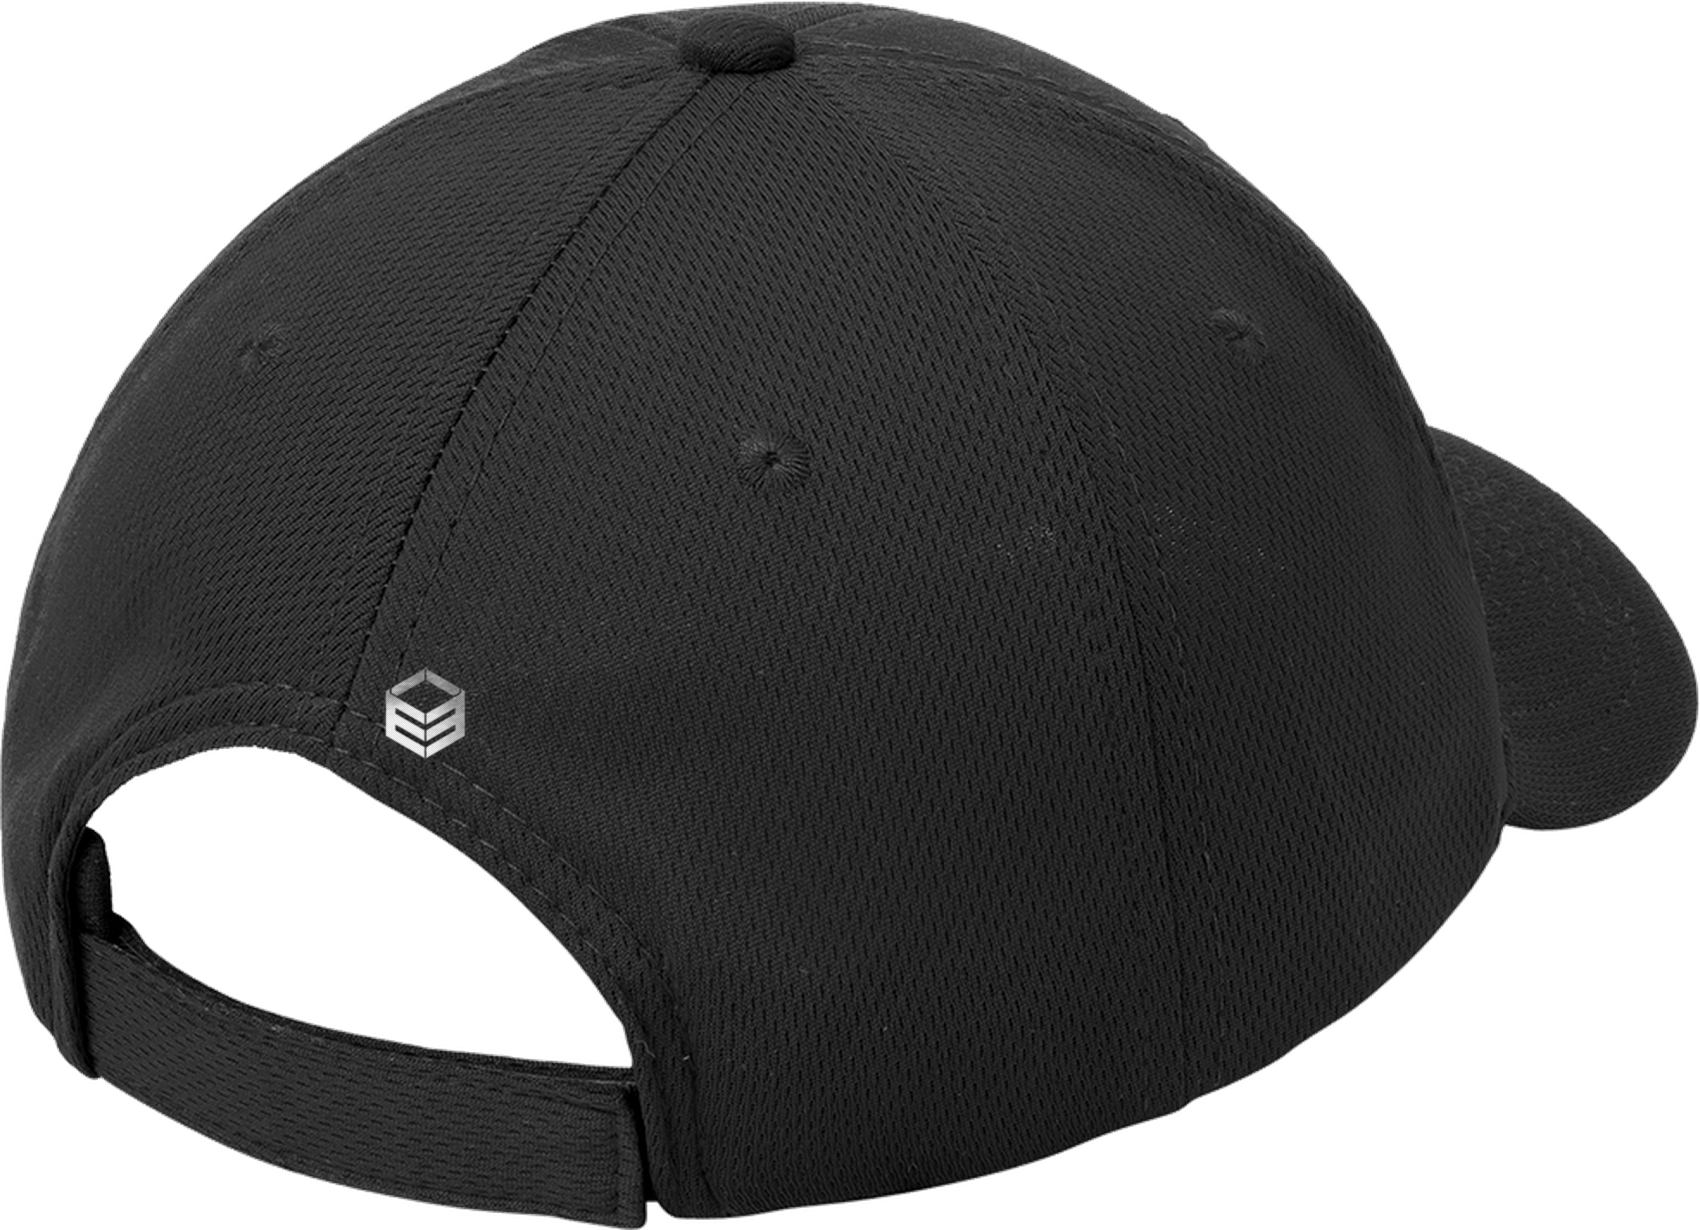
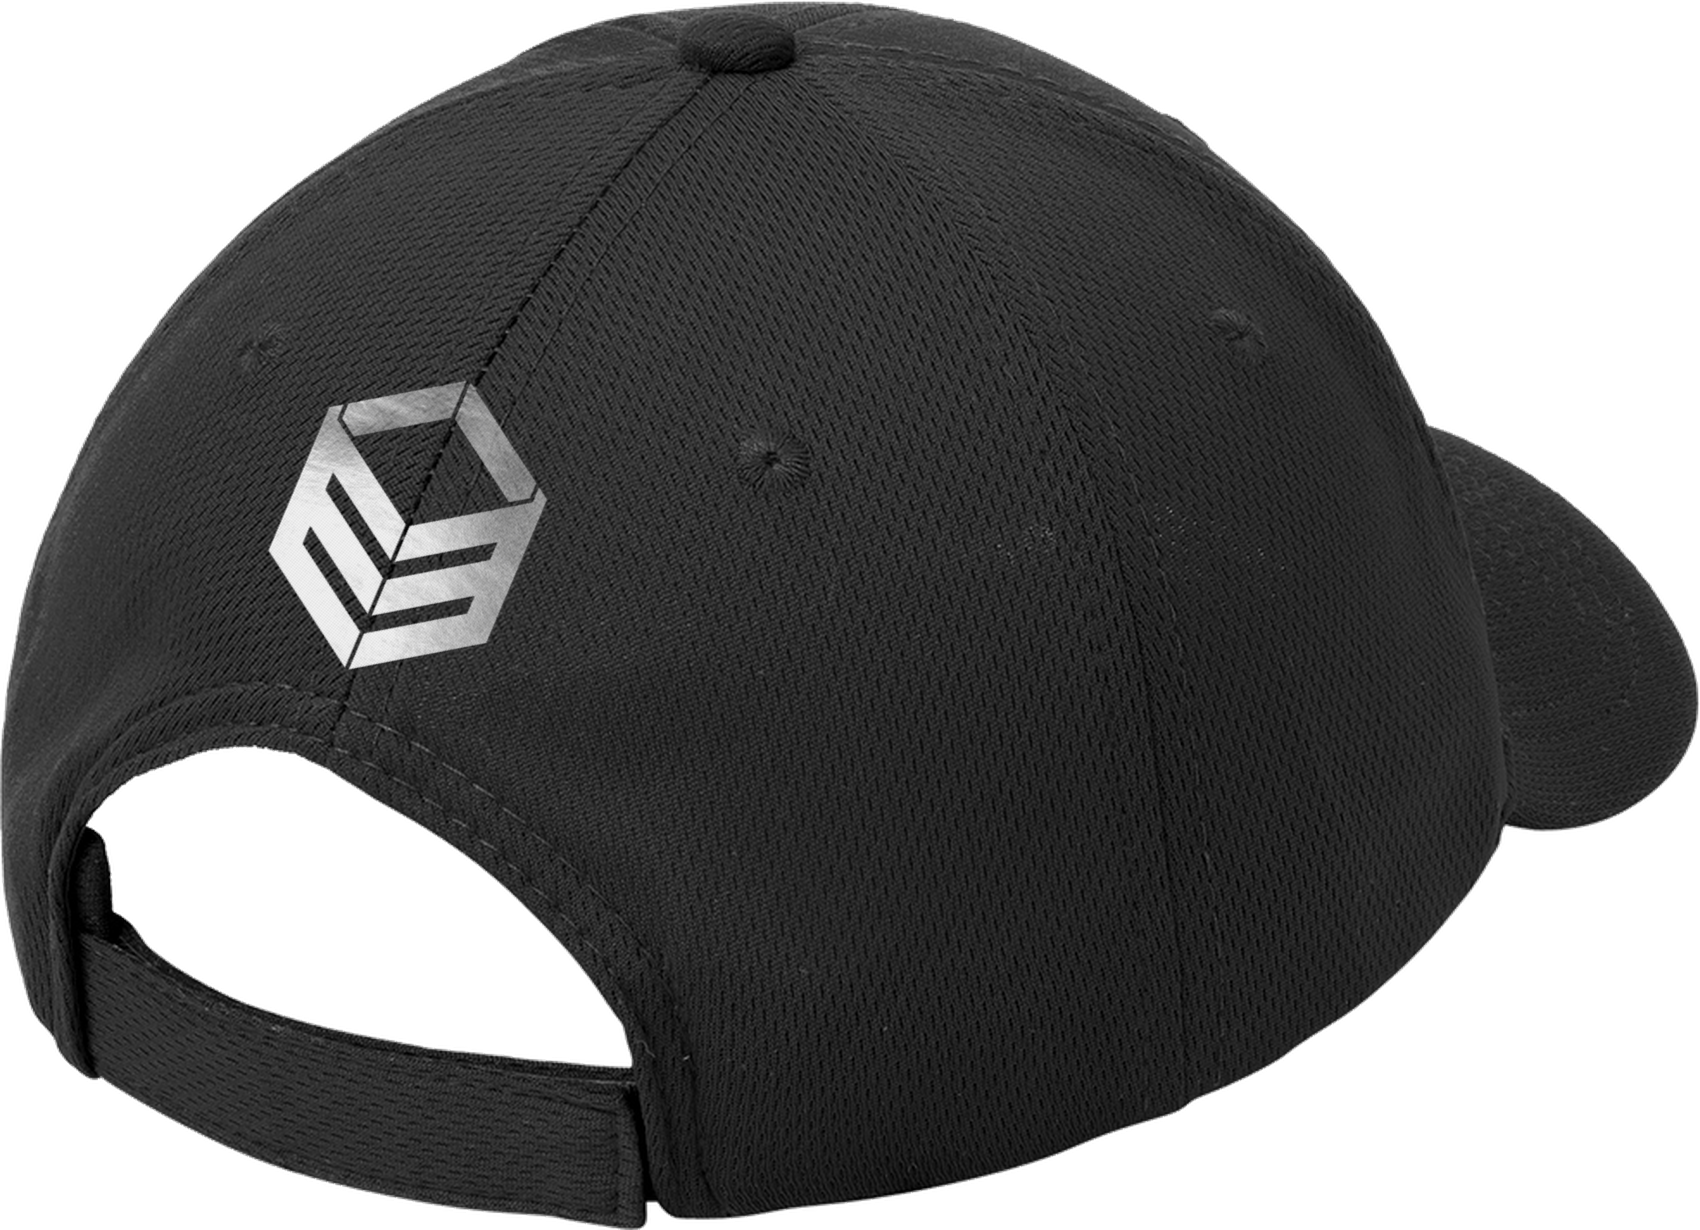
Center the back emblem and curve the agent name along the sweatband. (#16)
The emblem sits on the back seam, a third of the way up from the strap, and the name follows the side panel's lower edge.

Changed region(s): [[0.1559, 0.3089, 0.3429, 0.6179]]

diff --git a/cards/index.html b/cards/index.html
@@ -8,7 +8,7 @@
 (function () {
   var path = location.pathname, marker = '/enesma-shop/', i = path.indexOf(marker);
   window.SHOP_BASE = i >= 0 ? path.slice(0, i + marker.length) : '/';
-  var v = '20261120o';
+  var v = '20261120p';
   var b = window.SHOP_BASE;
   document.write('<base href="' + b + '">');
   document.write('<link rel="stylesheet" href="' + b + 'css/shop.css?v=' + v + '">');
@@ -23,12 +23,12 @@
 <body data-page="category" data-category="cards" data-title="Cards" data-lede="Business cards, printed with your photo and contact details.">
 <div id="app"></div>
 <script>
-document.write('<script src="' + window.SHOP_BASE + 'js/config.js?v=20261120o"><\/script>');
-document.write('<script src="' + window.SHOP_BASE + 'js/catalog.js?v=20261120o"><\/script>');
-document.write('<script src="' + window.SHOP_BASE + 'js/cart.js?v=20261120o"><\/script>');
-document.write('<script src="' + window.SHOP_BASE + 'js/api.js?v=20261120o"><\/script>');
-document.write('<script src="' + window.SHOP_BASE + 'js/ui.js?v=20261120o"><\/script>');
-document.write('<script src="' + window.SHOP_BASE + 'js/main.js?v=20261120o"><\/script>');
+document.write('<script src="' + window.SHOP_BASE + 'js/config.js?v=20261120p"><\/script>');
+document.write('<script src="' + window.SHOP_BASE + 'js/catalog.js?v=20261120p"><\/script>');
+document.write('<script src="' + window.SHOP_BASE + 'js/cart.js?v=20261120p"><\/script>');
+document.write('<script src="' + window.SHOP_BASE + 'js/api.js?v=20261120p"><\/script>');
+document.write('<script src="' + window.SHOP_BASE + 'js/ui.js?v=20261120p"><\/script>');
+document.write('<script src="' + window.SHOP_BASE + 'js/main.js?v=20261120p"><\/script>');
 </script>
 </body>
 </html>

diff --git a/signs/index.html b/signs/index.html
@@ -8,7 +8,7 @@
 (function () {
   var path = location.pathname, marker = '/enesma-shop/', i = path.indexOf(marker);
   window.SHOP_BASE = i >= 0 ? path.slice(0, i + marker.length) : '/';
-  var v = '20261120o';
+  var v = '20261120p';
   var b = window.SHOP_BASE;
   document.write('<base href="' + b + '">');
   document.write('<link rel="stylesheet" href="' + b + 'css/shop.css?v=' + v + '">');
@@ -23,12 +23,12 @@
 <body data-page="category" data-category="signs" data-title="Signs" data-lede="For sale signs and open house signs, in White or Black.">
 <div id="app"></div>
 <script>
-document.write('<script src="' + window.SHOP_BASE + 'js/config.js?v=20261120o"><\/script>');
-document.write('<script src="' + window.SHOP_BASE + 'js/catalog.js?v=20261120o"><\/script>');
-document.write('<script src="' + window.SHOP_BASE + 'js/cart.js?v=20261120o"><\/script>');
-document.write('<script src="' + window.SHOP_BASE + 'js/api.js?v=20261120o"><\/script>');
-document.write('<script src="' + window.SHOP_BASE + 'js/ui.js?v=20261120o"><\/script>');
-document.write('<script src="' + window.SHOP_BASE + 'js/main.js?v=20261120o"><\/script>');
+document.write('<script src="' + window.SHOP_BASE + 'js/config.js?v=20261120p"><\/script>');
+document.write('<script src="' + window.SHOP_BASE + 'js/catalog.js?v=20261120p"><\/script>');
+document.write('<script src="' + window.SHOP_BASE + 'js/cart.js?v=20261120p"><\/script>');
+document.write('<script src="' + window.SHOP_BASE + 'js/api.js?v=20261120p"><\/script>');
+document.write('<script src="' + window.SHOP_BASE + 'js/ui.js?v=20261120p"><\/script>');
+document.write('<script src="' + window.SHOP_BASE + 'js/main.js?v=20261120p"><\/script>');
 </script>
 </body>
 </html>

diff --git a/gear/index.html b/gear/index.html
@@ -8,7 +8,7 @@
 (function () {
   var path = location.pathname, marker = '/enesma-shop/', i = path.indexOf(marker);
   window.SHOP_BASE = i >= 0 ? path.slice(0, i + marker.length) : '/';
-  var v = '20261120o';
+  var v = '20261120p';
   var b = window.SHOP_BASE;
   document.write('<base href="' + b + '">');
   document.write('<link rel="stylesheet" href="' + b + 'css/shop.css?v=' + v + '">');
@@ -25,12 +25,12 @@ document.write('<script type="importmap">'+JSON.stringify({imports:{"three":wind
 <body data-page="closet">
 <div id="app"></div>
 <script>
-document.write('<script src="' + window.SHOP_BASE + 'js/config.js?v=20261120o"><\/script>');
-document.write('<script src="' + window.SHOP_BASE + 'js/catalog.js?v=20261120o"><\/script>');
-document.write('<script src="' + window.SHOP_BASE + 'js/cart.js?v=20261120o"><\/script>');
-document.write('<script src="' + window.SHOP_BASE + 'js/api.js?v=20261120o"><\/script>');
-document.write('<script src="' + window.SHOP_BASE + 'js/ui.js?v=20261120o"><\/script>');
-document.write('<script src="' + window.SHOP_BASE + 'js/main.js?v=20261120o"><\/script>');
+document.write('<script src="' + window.SHOP_BASE + 'js/config.js?v=20261120p"><\/script>');
+document.write('<script src="' + window.SHOP_BASE + 'js/catalog.js?v=20261120p"><\/script>');
+document.write('<script src="' + window.SHOP_BASE + 'js/cart.js?v=20261120p"><\/script>');
+document.write('<script src="' + window.SHOP_BASE + 'js/api.js?v=20261120p"><\/script>');
+document.write('<script src="' + window.SHOP_BASE + 'js/ui.js?v=20261120p"><\/script>');
+document.write('<script src="' + window.SHOP_BASE + 'js/main.js?v=20261120p"><\/script>');
 </script>
 </body>
 </html>

diff --git a/signs/for-sale-aluminum/index.html b/signs/for-sale-aluminum/index.html
@@ -8,7 +8,7 @@
 (function () {
   var path = location.pathname, marker = '/enesma-shop/', i = path.indexOf(marker);
   window.SHOP_BASE = i >= 0 ? path.slice(0, i + marker.length) : '/';
-  var v = '20261120o';
+  var v = '20261120p';
   var b = window.SHOP_BASE;
   document.write('<base href="' + b + '">');
   document.write('<link rel="stylesheet" href="' + b + 'css/shop.css?v=' + v + '">');
@@ -23,12 +23,12 @@
 <body data-page="product" data-sku="for-sale-aluminum">
 <div id="app"></div>
 <script>
-document.write('<script src="' + window.SHOP_BASE + 'js/config.js?v=20261120o"><\/script>');
-document.write('<script src="' + window.SHOP_BASE + 'js/catalog.js?v=20261120o"><\/script>');
-document.write('<script src="' + window.SHOP_BASE + 'js/cart.js?v=20261120o"><\/script>');
-document.write('<script src="' + window.SHOP_BASE + 'js/api.js?v=20261120o"><\/script>');
-document.write('<script src="' + window.SHOP_BASE + 'js/ui.js?v=20261120o"><\/script>');
-document.write('<script src="' + window.SHOP_BASE + 'js/main.js?v=20261120o"><\/script>');
+document.write('<script src="' + window.SHOP_BASE + 'js/config.js?v=20261120p"><\/script>');
+document.write('<script src="' + window.SHOP_BASE + 'js/catalog.js?v=20261120p"><\/script>');
+document.write('<script src="' + window.SHOP_BASE + 'js/cart.js?v=20261120p"><\/script>');
+document.write('<script src="' + window.SHOP_BASE + 'js/api.js?v=20261120p"><\/script>');
+document.write('<script src="' + window.SHOP_BASE + 'js/ui.js?v=20261120p"><\/script>');
+document.write('<script src="' + window.SHOP_BASE + 'js/main.js?v=20261120p"><\/script>');
 </script>
 </body>
 </html>

diff --git a/signs/for-sale-plastic/index.html b/signs/for-sale-plastic/index.html
@@ -8,7 +8,7 @@
 (function () {
   var path = location.pathname, marker = '/enesma-shop/', i = path.indexOf(marker);
   window.SHOP_BASE = i >= 0 ? path.slice(0, i + marker.length) : '/';
-  var v = '20261120o';
+  var v = '20261120p';
   var b = window.SHOP_BASE;
   document.write('<base href="' + b + '">');
   document.write('<link rel="stylesheet" href="' + b + 'css/shop.css?v=' + v + '">');
@@ -23,12 +23,12 @@
 <body data-page="product" data-sku="for-sale-plastic">
 <div id="app"></div>
 <script>
-document.write('<script src="' + window.SHOP_BASE + 'js/config.js?v=20261120o"><\/script>');
-document.write('<script src="' + window.SHOP_BASE + 'js/catalog.js?v=20261120o"><\/script>');
-document.write('<script src="' + window.SHOP_BASE + 'js/cart.js?v=20261120o"><\/script>');
-document.write('<script src="' + window.SHOP_BASE + 'js/api.js?v=20261120o"><\/script>');
-document.write('<script src="' + window.SHOP_BASE + 'js/ui.js?v=20261120o"><\/script>');
-document.write('<script src="' + window.SHOP_BASE + 'js/main.js?v=20261120o"><\/script>');
+document.write('<script src="' + window.SHOP_BASE + 'js/config.js?v=20261120p"><\/script>');
+document.write('<script src="' + window.SHOP_BASE + 'js/catalog.js?v=20261120p"><\/script>');
+document.write('<script src="' + window.SHOP_BASE + 'js/cart.js?v=20261120p"><\/script>');
+document.write('<script src="' + window.SHOP_BASE + 'js/api.js?v=20261120p"><\/script>');
+document.write('<script src="' + window.SHOP_BASE + 'js/ui.js?v=20261120p"><\/script>');
+document.write('<script src="' + window.SHOP_BASE + 'js/main.js?v=20261120p"><\/script>');
 </script>
 </body>
 </html>

diff --git a/gear/quarter-zip/index.html b/gear/quarter-zip/index.html
@@ -8,7 +8,7 @@
 (function () {
   var path = location.pathname, marker = '/enesma-shop/', i = path.indexOf(marker);
   window.SHOP_BASE = i >= 0 ? path.slice(0, i + marker.length) : '/';
-  var v = '20261120o';
+  var v = '20261120p';
   var b = window.SHOP_BASE;
   document.write('<base href="' + b + '">');
   document.write('<link rel="stylesheet" href="' + b + 'css/shop.css?v=' + v + '">');
@@ -23,12 +23,12 @@
 <body data-page="product" data-sku="quarter-zip">
 <div id="app"></div>
 <script>
-document.write('<script src="' + window.SHOP_BASE + 'js/config.js?v=20261120o"><\/script>');
-document.write('<script src="' + window.SHOP_BASE + 'js/catalog.js?v=20261120o"><\/script>');
-document.write('<script src="' + window.SHOP_BASE + 'js/cart.js?v=20261120o"><\/script>');
-document.write('<script src="' + window.SHOP_BASE + 'js/api.js?v=20261120o"><\/script>');
-document.write('<script src="' + window.SHOP_BASE + 'js/ui.js?v=20261120o"><\/script>');
-document.write('<script src="' + window.SHOP_BASE + 'js/main.js?v=20261120o"><\/script>');
+document.write('<script src="' + window.SHOP_BASE + 'js/config.js?v=20261120p"><\/script>');
+document.write('<script src="' + window.SHOP_BASE + 'js/catalog.js?v=20261120p"><\/script>');
+document.write('<script src="' + window.SHOP_BASE + 'js/cart.js?v=20261120p"><\/script>');
+document.write('<script src="' + window.SHOP_BASE + 'js/api.js?v=20261120p"><\/script>');
+document.write('<script src="' + window.SHOP_BASE + 'js/ui.js?v=20261120p"><\/script>');
+document.write('<script src="' + window.SHOP_BASE + 'js/main.js?v=20261120p"><\/script>');
 </script>
 </body>
 </html>

diff --git a/cards/cards-1000/index.html b/cards/cards-1000/index.html
@@ -8,7 +8,7 @@
 (function () {
   var path = location.pathname, marker = '/enesma-shop/', i = path.indexOf(marker);
   window.SHOP_BASE = i >= 0 ? path.slice(0, i + marker.length) : '/';
-  var v = '20261120o';
+  var v = '20261120p';
   var b = window.SHOP_BASE;
   document.write('<base href="' + b + '">');
   document.write('<link rel="stylesheet" href="' + b + 'css/shop.css?v=' + v + '">');
@@ -23,12 +23,12 @@
 <body data-page="product" data-sku="cards-1000">
 <div id="app"></div>
 <script>
-document.write('<script src="' + window.SHOP_BASE + 'js/config.js?v=20261120o"><\/script>');
-document.write('<script src="' + window.SHOP_BASE + 'js/catalog.js?v=20261120o"><\/script>');
-document.write('<script src="' + window.SHOP_BASE + 'js/cart.js?v=20261120o"><\/script>');
-document.write('<script src="' + window.SHOP_BASE + 'js/api.js?v=20261120o"><\/script>');
-document.write('<script src="' + window.SHOP_BASE + 'js/ui.js?v=20261120o"><\/script>');
-document.write('<script src="' + window.SHOP_BASE + 'js/main.js?v=20261120o"><\/script>');
+document.write('<script src="' + window.SHOP_BASE + 'js/config.js?v=20261120p"><\/script>');
+document.write('<script src="' + window.SHOP_BASE + 'js/catalog.js?v=20261120p"><\/script>');
+document.write('<script src="' + window.SHOP_BASE + 'js/cart.js?v=20261120p"><\/script>');
+document.write('<script src="' + window.SHOP_BASE + 'js/api.js?v=20261120p"><\/script>');
+document.write('<script src="' + window.SHOP_BASE + 'js/ui.js?v=20261120p"><\/script>');
+document.write('<script src="' + window.SHOP_BASE + 'js/main.js?v=20261120p"><\/script>');
 </script>
 </body>
 </html>

diff --git a/signs/open-house/index.html b/signs/open-house/index.html
@@ -8,7 +8,7 @@
 (function () {
   var path = location.pathname, marker = '/enesma-shop/', i = path.indexOf(marker);
   window.SHOP_BASE = i >= 0 ? path.slice(0, i + marker.length) : '/';
-  var v = '20261120o';
+  var v = '20261120p';
   var b = window.SHOP_BASE;
   document.write('<base href="' + b + '">');
   document.write('<link rel="stylesheet" href="' + b + 'css/shop.css?v=' + v + '">');
@@ -23,12 +23,12 @@
 <body data-page="product" data-sku="open-house">
 <div id="app"></div>
 <script>
-document.write('<script src="' + window.SHOP_BASE + 'js/config.js?v=20261120o"><\/script>');
-document.write('<script src="' + window.SHOP_BASE + 'js/catalog.js?v=20261120o"><\/script>');
-document.write('<script src="' + window.SHOP_BASE + 'js/cart.js?v=20261120o"><\/script>');
-document.write('<script src="' + window.SHOP_BASE + 'js/api.js?v=20261120o"><\/script>');
-document.write('<script src="' + window.SHOP_BASE + 'js/ui.js?v=20261120o"><\/script>');
-document.write('<script src="' + window.SHOP_BASE + 'js/main.js?v=20261120o"><\/script>');
+document.write('<script src="' + window.SHOP_BASE + 'js/config.js?v=20261120p"><\/script>');
+document.write('<script src="' + window.SHOP_BASE + 'js/catalog.js?v=20261120p"><\/script>');
+document.write('<script src="' + window.SHOP_BASE + 'js/cart.js?v=20261120p"><\/script>');
+document.write('<script src="' + window.SHOP_BASE + 'js/api.js?v=20261120p"><\/script>');
+document.write('<script src="' + window.SHOP_BASE + 'js/ui.js?v=20261120p"><\/script>');
+document.write('<script src="' + window.SHOP_BASE + 'js/main.js?v=20261120p"><\/script>');
 </script>
 </body>
 </html>

diff --git a/gear/t-shirt/index.html b/gear/t-shirt/index.html
@@ -8,7 +8,7 @@
 (function () {
   var path = location.pathname, marker = '/enesma-shop/', i = path.indexOf(marker);
   window.SHOP_BASE = i >= 0 ? path.slice(0, i + marker.length) : '/';
-  var v = '20261120o';
+  var v = '20261120p';
   var b = window.SHOP_BASE;
   document.write('<base href="' + b + '">');
   document.write('<link rel="stylesheet" href="' + b + 'css/shop.css?v=' + v + '">');
@@ -23,12 +23,12 @@
 <body data-page="product" data-sku="t-shirt">
 <div id="app"></div>
 <script>
-document.write('<script src="' + window.SHOP_BASE + 'js/config.js?v=20261120o"><\/script>');
-document.write('<script src="' + window.SHOP_BASE + 'js/catalog.js?v=20261120o"><\/script>');
-document.write('<script src="' + window.SHOP_BASE + 'js/cart.js?v=20261120o"><\/script>');
-document.write('<script src="' + window.SHOP_BASE + 'js/api.js?v=20261120o"><\/script>');
-document.write('<script src="' + window.SHOP_BASE + 'js/ui.js?v=20261120o"><\/script>');
-document.write('<script src="' + window.SHOP_BASE + 'js/main.js?v=20261120o"><\/script>');
+document.write('<script src="' + window.SHOP_BASE + 'js/config.js?v=20261120p"><\/script>');
+document.write('<script src="' + window.SHOP_BASE + 'js/catalog.js?v=20261120p"><\/script>');
+document.write('<script src="' + window.SHOP_BASE + 'js/cart.js?v=20261120p"><\/script>');
+document.write('<script src="' + window.SHOP_BASE + 'js/api.js?v=20261120p"><\/script>');
+document.write('<script src="' + window.SHOP_BASE + 'js/ui.js?v=20261120p"><\/script>');
+document.write('<script src="' + window.SHOP_BASE + 'js/main.js?v=20261120p"><\/script>');
 </script>
 </body>
 </html>

diff --git a/signs/a-frame/index.html b/signs/a-frame/index.html
@@ -8,7 +8,7 @@
 (function () {
   var path = location.pathname, marker = '/enesma-shop/', i = path.indexOf(marker);
   window.SHOP_BASE = i >= 0 ? path.slice(0, i + marker.length) : '/';
-  var v = '20261120o';
+  var v = '20261120p';
   var b = window.SHOP_BASE;
   document.write('<base href="' + b + '">');
   document.write('<link rel="stylesheet" href="' + b + 'css/shop.css?v=' + v + '">');
@@ -23,12 +23,12 @@
 <body data-page="product" data-sku="a-frame">
 <div id="app"></div>
 <script>
-document.write('<script src="' + window.SHOP_BASE + 'js/config.js?v=20261120o"><\/script>');
-document.write('<script src="' + window.SHOP_BASE + 'js/catalog.js?v=20261120o"><\/script>');
-document.write('<script src="' + window.SHOP_BASE + 'js/cart.js?v=20261120o"><\/script>');
-document.write('<script src="' + window.SHOP_BASE + 'js/api.js?v=20261120o"><\/script>');
-document.write('<script src="' + window.SHOP_BASE + 'js/ui.js?v=20261120o"><\/script>');
-document.write('<script src="' + window.SHOP_BASE + 'js/main.js?v=20261120o"><\/script>');
+document.write('<script src="' + window.SHOP_BASE + 'js/config.js?v=20261120p"><\/script>');
+document.write('<script src="' + window.SHOP_BASE + 'js/catalog.js?v=20261120p"><\/script>');
+document.write('<script src="' + window.SHOP_BASE + 'js/cart.js?v=20261120p"><\/script>');
+document.write('<script src="' + window.SHOP_BASE + 'js/api.js?v=20261120p"><\/script>');
+document.write('<script src="' + window.SHOP_BASE + 'js/ui.js?v=20261120p"><\/script>');
+document.write('<script src="' + window.SHOP_BASE + 'js/main.js?v=20261120p"><\/script>');
 </script>
 </body>
 </html>

diff --git a/gear/polo/index.html b/gear/polo/index.html
@@ -8,7 +8,7 @@
 (function () {
   var path = location.pathname, marker = '/enesma-shop/', i = path.indexOf(marker);
   window.SHOP_BASE = i >= 0 ? path.slice(0, i + marker.length) : '/';
-  var v = '20261120o';
+  var v = '20261120p';
   var b = window.SHOP_BASE;
   document.write('<base href="' + b + '">');
   document.write('<link rel="stylesheet" href="' + b + 'css/shop.css?v=' + v + '">');
@@ -23,12 +23,12 @@
 <body data-page="product" data-sku="polo">
 <div id="app"></div>
 <script>
-document.write('<script src="' + window.SHOP_BASE + 'js/config.js?v=20261120o"><\/script>');
-document.write('<script src="' + window.SHOP_BASE + 'js/catalog.js?v=20261120o"><\/script>');
-document.write('<script src="' + window.SHOP_BASE + 'js/cart.js?v=20261120o"><\/script>');
-document.write('<script src="' + window.SHOP_BASE + 'js/api.js?v=20261120o"><\/script>');
-document.write('<script src="' + window.SHOP_BASE + 'js/ui.js?v=20261120o"><\/script>');
-document.write('<script src="' + window.SHOP_BASE + 'js/main.js?v=20261120o"><\/script>');
+document.write('<script src="' + window.SHOP_BASE + 'js/config.js?v=20261120p"><\/script>');
+document.write('<script src="' + window.SHOP_BASE + 'js/catalog.js?v=20261120p"><\/script>');
+document.write('<script src="' + window.SHOP_BASE + 'js/cart.js?v=20261120p"><\/script>');
+document.write('<script src="' + window.SHOP_BASE + 'js/api.js?v=20261120p"><\/script>');
+document.write('<script src="' + window.SHOP_BASE + 'js/ui.js?v=20261120p"><\/script>');
+document.write('<script src="' + window.SHOP_BASE + 'js/main.js?v=20261120p"><\/script>');
 </script>
 </body>
 </html>

diff --git a/gear/cap/index.html b/gear/cap/index.html
@@ -8,7 +8,7 @@
 (function () {
   var path = location.pathname, marker = '/enesma-shop/', i = path.indexOf(marker);
   window.SHOP_BASE = i >= 0 ? path.slice(0, i + marker.length) : '/';
-  var v = '20261120o';
+  var v = '20261120p';
   var b = window.SHOP_BASE;
   document.write('<base href="' + b + '">');
   document.write('<link rel="stylesheet" href="' + b + 'css/shop.css?v=' + v + '">');
@@ -23,12 +23,12 @@
 <body data-page="product" data-sku="cap">
 <div id="app"></div>
 <script>
-document.write('<script src="' + window.SHOP_BASE + 'js/config.js?v=20261120o"><\/script>');
-document.write('<script src="' + window.SHOP_BASE + 'js/catalog.js?v=20261120o"><\/script>');
-document.write('<script src="' + window.SHOP_BASE + 'js/cart.js?v=20261120o"><\/script>');
-document.write('<script src="' + window.SHOP_BASE + 'js/api.js?v=20261120o"><\/script>');
-document.write('<script src="' + window.SHOP_BASE + 'js/ui.js?v=20261120o"><\/script>');
-document.write('<script src="' + window.SHOP_BASE + 'js/main.js?v=20261120o"><\/script>');
+document.write('<script src="' + window.SHOP_BASE + 'js/config.js?v=20261120p"><\/script>');
+document.write('<script src="' + window.SHOP_BASE + 'js/catalog.js?v=20261120p"><\/script>');
+document.write('<script src="' + window.SHOP_BASE + 'js/cart.js?v=20261120p"><\/script>');
+document.write('<script src="' + window.SHOP_BASE + 'js/api.js?v=20261120p"><\/script>');
+document.write('<script src="' + window.SHOP_BASE + 'js/ui.js?v=20261120p"><\/script>');
+document.write('<script src="' + window.SHOP_BASE + 'js/main.js?v=20261120p"><\/script>');
 </script>
 </body>
 </html>
